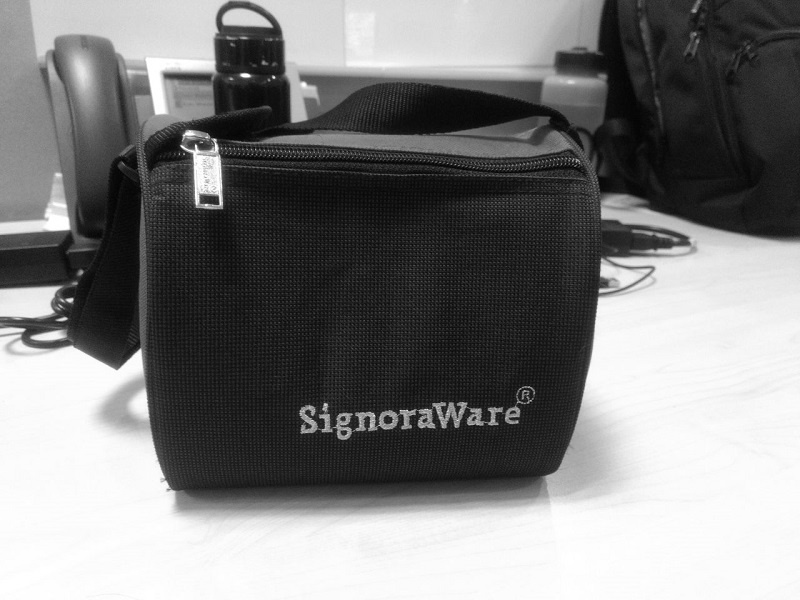
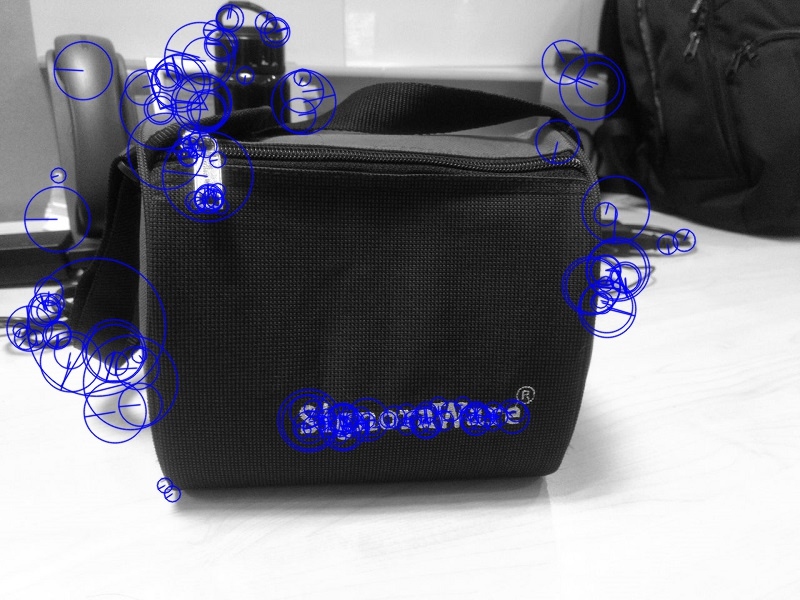
SURF Sample Complete

diff --git a/surf_opencv.py b/surf_opencv.py
@@ -11,20 +11,19 @@ import os
 import sys
 
 def main():
-    img = cv2.imread('sample.jpg', 0)
-
-    surf = cv2.xfeatures2d.SURF_create(400)
-    kp = surf.detect(img,None)
-    print(len(kp))
-    img2 = cv2.drawKeypoints(img,kp,None,(255,0,0),4)
+    img = cv2.imread('sample.jpg')
+    gray = cv2.cvtColor(img, cv2.COLOR_BGR2GRAY)
+    surf = cv2.xfeatures2d.SURF_create(5000)
+    kp, des = surf.detectAndCompute(gray,None)
+    img2 = cv2.drawKeypoints(gray,kp,img,(255,0,0),4)
 
     # Save the Annotated Image to output directory
-    path = 'C:/Users/VIVTRIPATHI/Desktop/Projects/OpenCVLearn/output/'
+    path = os.getcwd() + '/output/'
     file_name = os.path.basename(sys.argv[0])
 
-    cv2.imwrite(str(path)+'{0}.jpg'.format(file_name),img)
+    cv2.imwrite(str(path)+'{0}.jpg'.format(file_name),img2)
 
-    plt.imshow(img), plt.show()
+    plt.imshow(img2), plt.show()
 
 if __name__ == '__main__':
     main()
